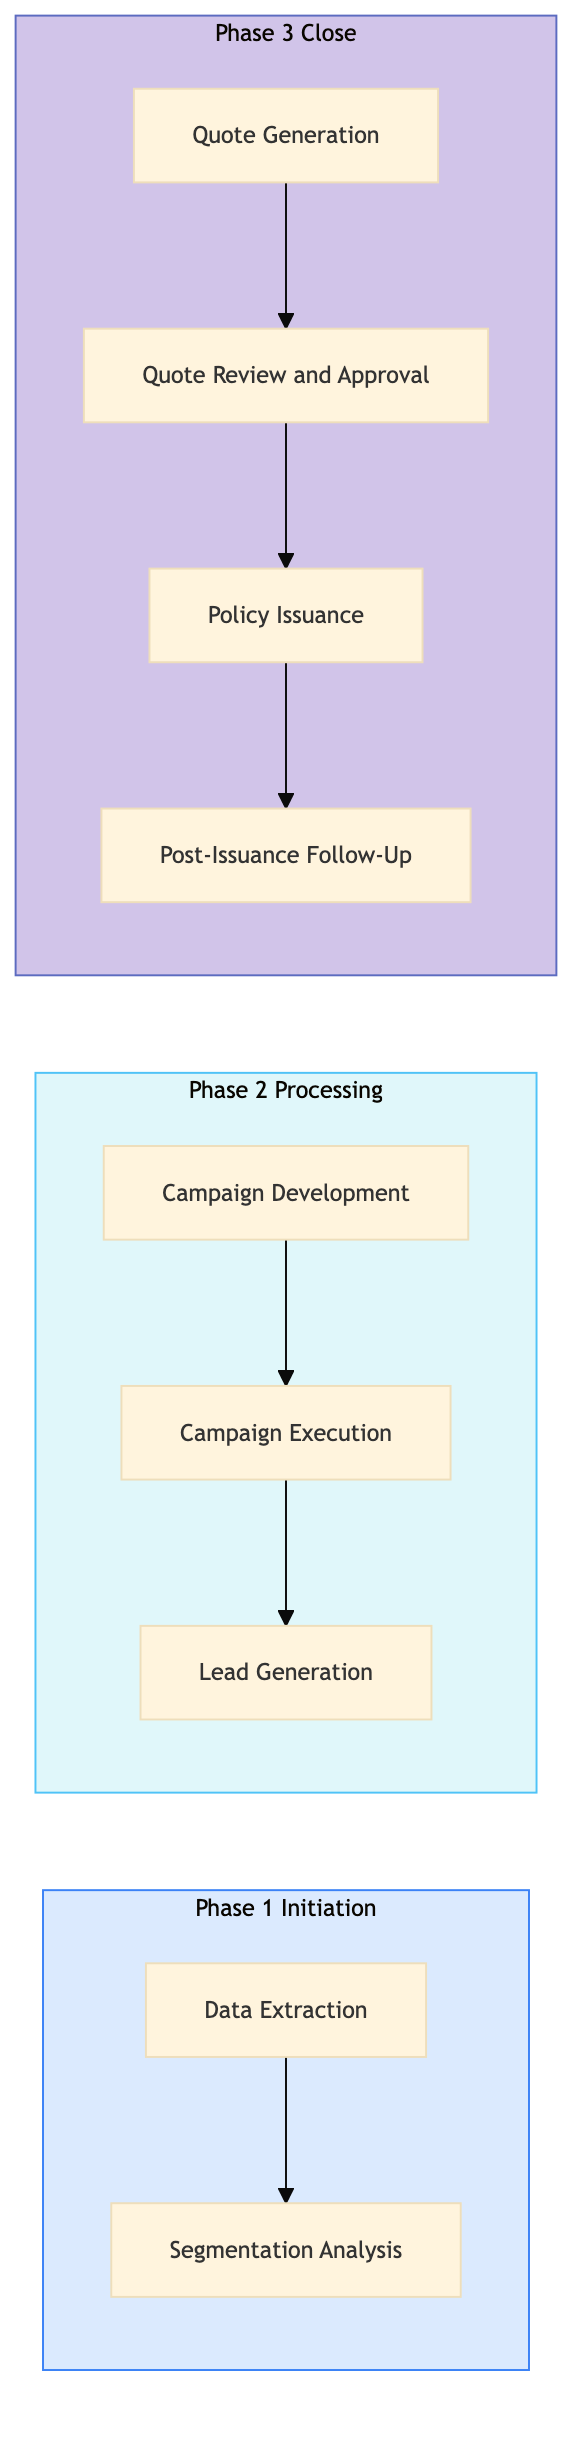
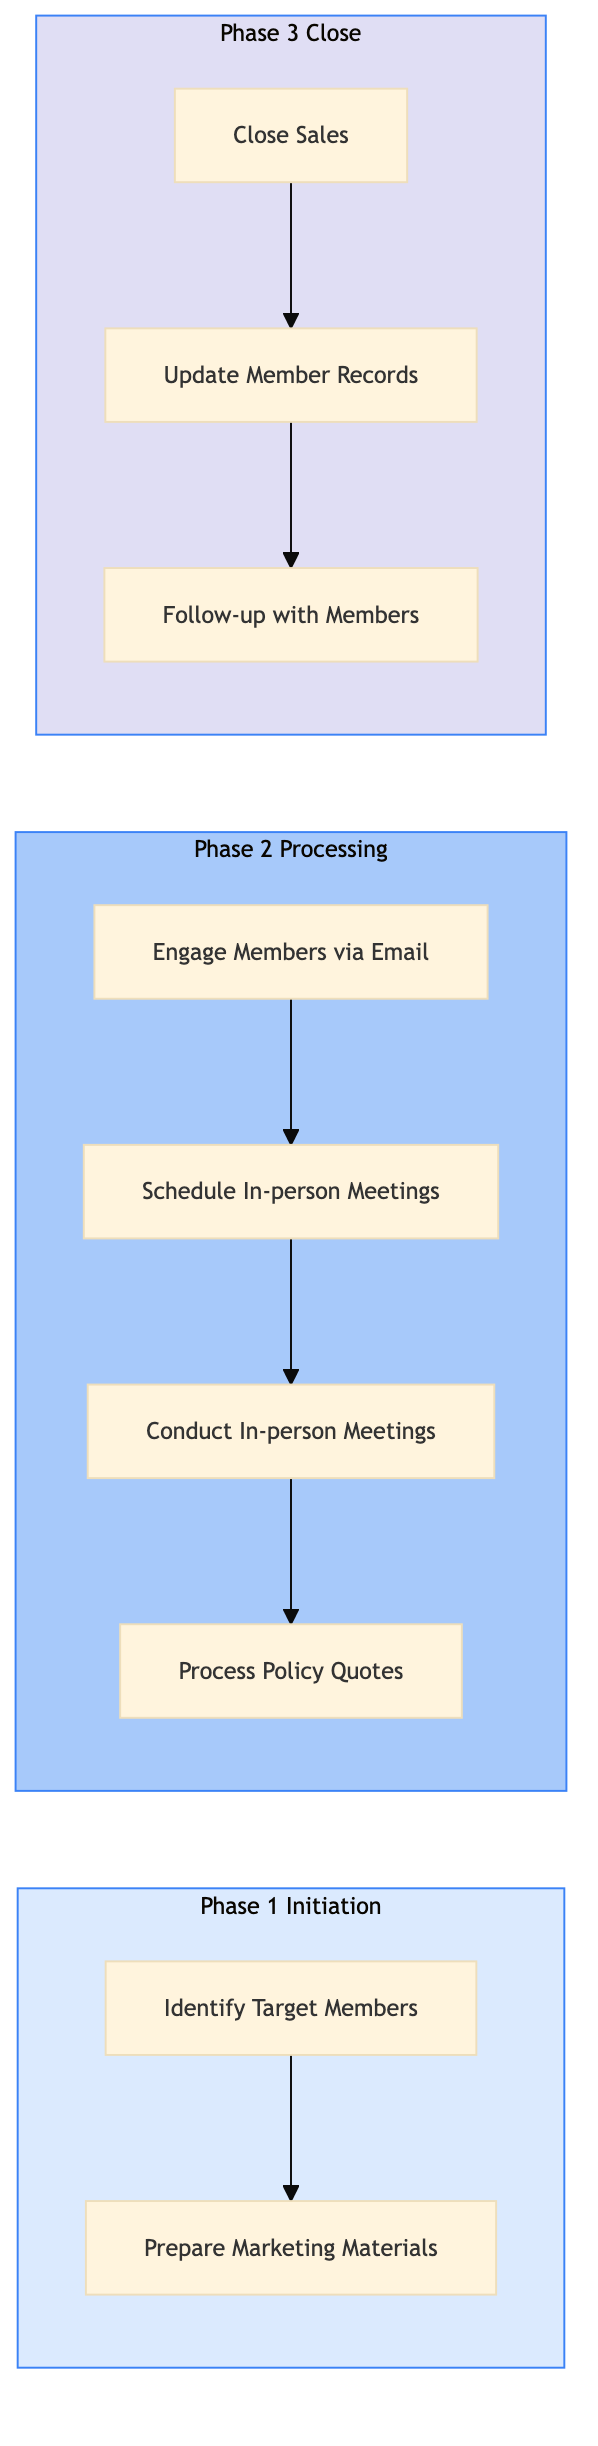
feat: add AAA-IN-AG-05 — Cross-Sell Insurance to Existing AAA Members

diff --git a/aaa-insurance/agency-operations/aaa-in-ag-05.html b/aaa-insurance/agency-operations/aaa-in-ag-05.html
@@ -23,40 +23,16 @@
     <div class="nav-l2-group">
       <a class="nav-l2-title" href="../../shared-membership/membership-enrolment/index.html">Membership Enrolment & Sales</a>
       <div class="nav-l3-list">
-        <a class="nav-l3" href="../../shared-membership/membership-enrolment/shared-mb-en-01.html">SHARED-MB-EN-01 &mdash; New Member Walk-In Enrolment (Branch)</a>
-        <a class="nav-l3" href="../../shared-membership/membership-enrolment/shared-mb-en-02.html">SHARED-MB-EN-02 &mdash; Online Membership Self-Enrolment (Web/Ap</a>
-        <a class="nav-l3" href="../../shared-membership/membership-enrolment/shared-mb-en-03.html">SHARED-MB-EN-03 &mdash; Phone Enrolment via Contact Centre</a>
-        <a class="nav-l3" href="../../shared-membership/membership-enrolment/shared-mb-en-04.html">SHARED-MB-EN-04 &mdash; Affiliate and Employer Group Enrolment</a>
-        <a class="nav-l3" href="../../shared-membership/membership-enrolment/shared-mb-en-05.html">SHARED-MB-EN-05 &mdash; Membership Tier Selection and Upsell</a>
-        <a class="nav-l3" href="../../shared-membership/membership-enrolment/shared-mb-en-06.html">SHARED-MB-EN-06 &mdash; Payment Processing and First-Year Billin</a>
-        <a class="nav-l3" href="../../shared-membership/membership-enrolment/shared-mb-en-07.html">SHARED-MB-EN-07 &mdash; Welcome Kit and Digital Card Issuance</a>
-        <a class="nav-l3" href="../../shared-membership/membership-enrolment/shared-mb-en-08.html">SHARED-MB-EN-08 &mdash; Duplicate Member Detection and Merge</a>
       </div>
     </div>
     <div class="nav-l2-group">
       <a class="nav-l2-title" href="../../shared-membership/membership-renewal/index.html">Membership Renewal & Retention</a>
       <div class="nav-l3-list">
-        <a class="nav-l3" href="../../shared-membership/membership-renewal/shared-mb-rn-01.html">SHARED-MB-RN-01 &mdash; Annual Renewal Notice Generation and Dis</a>
-        <a class="nav-l3" href="../../shared-membership/membership-renewal/shared-mb-rn-02.html">SHARED-MB-RN-02 &mdash; Auto-Renewal Processing (Credit Card on </a>
-        <a class="nav-l3" href="../../shared-membership/membership-renewal/shared-mb-rn-03.html">SHARED-MB-RN-03 &mdash; Lapsed Member Reinstatement Campaign</a>
-        <a class="nav-l3" href="../../shared-membership/membership-renewal/shared-mb-rn-04.html">SHARED-MB-RN-04 &mdash; Membership Upgrade and Tier Change Proce</a>
-        <a class="nav-l3" href="../../shared-membership/membership-renewal/shared-mb-rn-05.html">SHARED-MB-RN-05 &mdash; Associate and Household Member Add-On Pr</a>
-        <a class="nav-l3" href="../../shared-membership/membership-renewal/shared-mb-rn-06.html">SHARED-MB-RN-06 &mdash; Cancellation Request Handling and Save O</a>
-        <a class="nav-l3" href="../../shared-membership/membership-renewal/shared-mb-rn-07.html">SHARED-MB-RN-07 &mdash; Renewal Rate Review and Pricing Update</a>
-        <a class="nav-l3" href="../../shared-membership/membership-renewal/shared-mb-rn-08.html">SHARED-MB-RN-08 &mdash; Membership Winback Campaign (12-36 Month</a>
       </div>
     </div>
     <div class="nav-l2-group">
       <a class="nav-l2-title" href="../../shared-membership/member-services/index.html">Member Services & Benefits</a>
       <div class="nav-l3-list">
-        <a class="nav-l3" href="../../shared-membership/member-services/shared-mb-sv-01.html">SHARED-MB-SV-01 &mdash; Member Discount Partner Redemption</a>
-        <a class="nav-l3" href="../../shared-membership/member-services/shared-mb-sv-02.html">SHARED-MB-SV-02 &mdash; Passport Photo Service Delivery (Branch)</a>
-        <a class="nav-l3" href="../../shared-membership/member-services/shared-mb-sv-03.html">SHARED-MB-SV-03 &mdash; International Driving Permit (IDP) Proce</a>
-        <a class="nav-l3" href="../../shared-membership/member-services/shared-mb-sv-04.html">SHARED-MB-SV-04 &mdash; Notary and Document Authentication Servi</a>
-        <a class="nav-l3" href="../../shared-membership/member-services/shared-mb-sv-05.html">SHARED-MB-SV-05 &mdash; Member Portal Profile and Preferences Ma</a>
-        <a class="nav-l3" href="../../shared-membership/member-services/shared-mb-sv-06.html">SHARED-MB-SV-06 &mdash; Lost and Stolen Membership Card Replacem</a>
-        <a class="nav-l3" href="../../shared-membership/member-services/shared-mb-sv-07.html">SHARED-MB-SV-07 &mdash; Member Data Privacy Request (CCPA and PI</a>
-        <a class="nav-l3" href="../../shared-membership/member-services/shared-mb-sv-08.html">SHARED-MB-SV-08 &mdash; Member Satisfaction Survey and NPS Track</a>
       </div>
     </div>
   </div>
@@ -308,7 +284,7 @@
           <span class="pid-badge org-badge-aaa">AAA</span>
           AAA-IN-AG-05 &mdash; Cross-Sell Insurance to Existing AAA Members
         </h1>
-        <p>This process involves identifying existing AAA Northeast members who are eligible for additional insurance products and cross-selling these products to them. The goal is to increase the revenue from each member by offering complementary insurance offerings.</p>
+        <p>The process aims to cross-sell insurance products to existing AAA Northeast members by leveraging Guidewire Cloud for policy management and Salesforce for customer engagement.</p>
       </div>
 
       <!-- BPMN Diagram -->
@@ -334,10 +310,10 @@
             <tr><th>L1 Domain</th><td>AAA Insurance</td></tr>
             <tr><th>L2 Process</th><td>Insurance Agency Operations</td></tr>
             <tr><th>L3 Name</th><td>Cross-Sell Insurance to Existing AAA Members</td></tr>
-            <tr><th>Trigger</th><td>Quarterly review of member data and identification of high-value opportunities</td></tr>
-            <tr><th>Outcome</th><td>Successful completion results in increased sales of additional insurance products to existing members, leading to higher revenue for AAA Northeast.</td></tr>
-            <tr><th>Org Notes</th><td>AAA Northeast focuses on leveraging its large membership base and robust digital infrastructure to drive cross-selling efforts. The process is more integrated with Salesforce and Guidewire Cloud compared to CAA operations.</td></tr>
-            <tr><th>Systems</th><td><span class="sys-tag guidewire">Guidewire PolicyCenter</span> <span class="sys-tag salesforce">Salesforce</span> <span class="sys-tag snowflake">Snowflake</span> <span class="sys-tag verisk">Verisk ISO rating</span></td></tr>
+            <tr><th>Trigger</th><td>Quarterly review of member engagement data identifies under-insured or non-insured members.</td></tr>
+            <tr><th>Outcome</th><td>Successful completion results in increased membership insurance coverage, enhanced revenue, and improved customer satisfaction.</td></tr>
+            <tr><th>Org Notes</th><td>AAA Northeast focuses on direct member outreach through licensed agents, while CAA may rely more on digital channels for cross-selling.</td></tr>
+            <tr><th>Systems</th><td><span class="sys-tag guidewire">Guidewire Cloud</span> <span class="sys-tag salesforce">Salesforce</span> <span class="sys-tag verisk">Verisk ISO rating</span> <span class="sys-tag sys-generic">Calendar Integration</span></td></tr>
           </table>
         </div>
       </div>
@@ -358,109 +334,109 @@
               <tbody>
         <tr>
           <td class="step-num">1.1</td>
-          <td>Data Extraction</td>
+          <td>Identify Target Members</td>
           <td>Data Analyst</td>
-          <td><span class="sys-tag guidewire">Guidewire PolicyCenter/BillingCenter</span></td>
-          <td>Member database</td>
-          <td>Eligible member list</td>
-          <td>Number of eligible members identified per quarter (Target: 10,000)</td>
-          <td>Data extraction errors can lead to missed opportunities</td>
+          <td><span class="sys-tag guidewire">Guidewire Cloud</span></td>
+          <td>Member engagement data</td>
+          <td>List of under-insured or non-insured members</td>
+          <td>Number of identified target members: 5,000+</td>
+          <td>Data accuracy and completeness</td>
           <td>N</td>
           <td><span class="exception-y">Y</span></td>
         </tr>
         <tr>
           <td class="step-num">1.2</td>
-          <td>Segmentation Analysis</td>
-          <td>Data Analyst</td>
-          <td><span class="sys-tag snowflake">Snowflake</span></td>
-          <td>Eligible member list</td>
-          <td>Member segmentation report</td>
-          <td>Number of segments identified (Target: 5)</td>
-          <td>Inaccurate segmentation can result in ineffective targeting</td>
+          <td>Prepare Marketing Materials</td>
+          <td>Marketing Specialist</td>
+          <td><span class="sys-tag salesforce">Salesforce</span></td>
+          <td>List of target members, product details</td>
+          <td>Customized marketing emails, brochures</td>
+          <td>Number of prepared materials: 5,000+</td>
+          <td>Timely material preparation</td>
           <td>N</td>
           <td><span class="exception-y">Y</span></td>
         </tr>
         <tr>
           <td class="step-num">2.1</td>
-          <td>Campaign Development</td>
-          <td>Marketing Specialist</td>
+          <td>Engage Members via Email</td>
+          <td>Licensed Insurance Agent</td>
           <td><span class="sys-tag salesforce">Salesforce</span></td>
-          <td>Member segmentation report</td>
-          <td>Cross-selling campaign plan</td>
-          <td>Number of campaigns developed per quarter (Target: 3)</td>
-          <td>Resource constraints can delay campaign development</td>
+          <td>Customized marketing emails, member contact information</td>
+          <td>Email sent to target members</td>
+          <td>Number of emails sent: 5,000+</td>
+          <td>High open and click-through rates</td>
           <td>N</td>
           <td><span class="exception-y">Y</span></td>
         </tr>
         <tr>
           <td class="step-num">2.2</td>
-          <td>Campaign Execution</td>
+          <td>Schedule In-person Meetings</td>
           <td>Licensed Insurance Agent</td>
-          <td><span class="sys-tag guidewire">Salesforce, Guidewire PolicyCenter</span></td>
-          <td>Cross-selling campaign plan</td>
-          <td>Campaign execution report</td>
-          <td>Number of campaigns executed per quarter (Target: 3)</td>
-          <td>Low agent engagement can reduce campaign effectiveness</td>
+          <td><span class="sys-tag salesforce">Salesforce, Calendar Integration</span></td>
+          <td>Email responses, availability data</td>
+          <td>Scheduled meeting details</td>
+          <td>Number of scheduled meetings: 1,000+</td>
+          <td>Meeting scheduling conflicts</td>
           <td>N</td>
           <td><span class="exception-y">Y</span></td>
         </tr>
         <tr>
           <td class="step-num">2.3</td>
-          <td>Lead Generation</td>
+          <td>Conduct In-person Meetings</td>
           <td>Licensed Insurance Agent</td>
-          <td><span class="sys-tag guidewire">Salesforce, Guidewire PolicyCenter</span></td>
-          <td>Campaign execution report</td>
-          <td>Qualified lead list</td>
-          <td>Number of qualified leads generated per quarter (Target: 500)</td>
-          <td>High churning rates among leads can impact sales</td>
+          <td><span class="sys-tag guidewire">Guidewire Cloud, Salesforce</span></td>
+          <td>Scheduled meeting details, member information</td>
+          <td>Meeting notes, policy recommendations</td>
+          <td>Number of meetings conducted: 1,000+</td>
+          <td>Effective communication and product presentation</td>
+          <td>N</td>
+          <td><span class="exception-y">Y</span></td>
+        </tr>
+        <tr>
+          <td class="step-num">2.4</td>
+          <td>Process Policy Quotes</td>
+          <td>Underwriter</td>
+          <td><span class="sys-tag guidewire">Guidewire Cloud, Verisk ISO rating</span></td>
+          <td>Meeting notes, policy recommendations</td>
+          <td>Policy quotes with rates</td>
+          <td>Number of processed quotes: 1,000+</td>
+          <td>Quote accuracy and turnaround time</td>
           <td>N</td>
           <td><span class="exception-y">Y</span></td>
         </tr>
         <tr>
           <td class="step-num">3.1</td>
-          <td>Quote Generation</td>
+          <td>Close Sales</td>
           <td>Licensed Insurance Agent</td>
-          <td><span class="sys-tag guidewire">Guidewire PolicyCenter, Verisk ISO rating</span></td>
-          <td>Qualified lead list</td>
-          <td>Customized insurance quotes</td>
-          <td>Number of quotes generated per quarter (Target: 500)</td>
-          <td>Inaccurate quote generation can lead to customer dissatisfaction</td>
-          <td>N</td>
-          <td><span class="exception-y">Y</span></td>
-        </tr>
-        <tr>
-          <td class="step-num">3.2</td>
-          <td>Quote Review and Approval</td>
-          <td>Underwriter</td>
-          <td><span class="sys-tag guidewire">Guidewire PolicyCenter</span></td>
-          <td>Customized insurance quotes</td>
-          <td>Approved quote list</td>
-          <td>Number of quotes approved per quarter (Target: 400)</td>
-          <td>Delays in underwriting can slow down the sales process</td>
+          <td><span class="sys-tag guidewire">Guidewire Cloud, Salesforce</span></td>
+          <td>Policy quotes with rates, member decision</td>
+          <td>Signed policy documents</td>
+          <td>Number of policies sold: 500+</td>
+          <td>Closing the sale and handling objections</td>
           <td><span class="decision-y">Y</span></td>
           <td><span class="exception-y">Y</span></td>
         </tr>
         <tr>
-          <td class="step-num">3.3</td>
-          <td>Policy Issuance</td>
-          <td>Licensed Insurance Agent</td>
-          <td><span class="sys-tag guidewire">Guidewire PolicyCenter, Salesforce</span></td>
-          <td>Approved quote list</td>
-          <td>Issued policies</td>
-          <td>Number of policies issued per quarter (Target: 300)</td>
-          <td>Errors in policy issuance can lead to compliance issues</td>
+          <td class="step-num">3.2</td>
+          <td>Update Member Records</td>
+          <td>Data Analyst</td>
+          <td><span class="sys-tag guidewire">Guidewire Cloud, Salesforce</span></td>
+          <td>Signed policy documents</td>
+          <td>Updated member records in systems</td>
+          <td>Number of updated records: 500+</td>
+          <td>Data synchronization and integrity</td>
           <td>N</td>
           <td><span class="exception-y">Y</span></td>
         </tr>
         <tr>
-          <td class="step-num">3.4</td>
-          <td>Post-Issuance Follow-Up</td>
+          <td class="step-num">3.3</td>
+          <td>Follow-up with Members</td>
           <td>Licensed Insurance Agent</td>
-          <td><span class="sys-tag guidewire">Salesforce, Guidewire PolicyCenter</span></td>
-          <td>Issued policies</td>
-          <td>Follow-up report</td>
-          <td>Number of follow-ups conducted per quarter (Target: 300)</td>
-          <td>Low follow-up rates can reduce customer satisfaction</td>
+          <td><span class="sys-tag salesforce">Salesforce, Email Integration</span></td>
+          <td>Signed policy documents, member contact information</td>
+          <td>Follow-up emails and calls</td>
+          <td>Number of follow-ups: 500+</td>
+          <td>Maintaining customer satisfaction</td>
           <td>N</td>
           <td><span class="exception-y">Y</span></td>
         </tr>
@@ -475,9 +451,9 @@
         <div class="card-header">&#x1F4CA; KPIs &amp; Risk Register</div>
         <div class="card-body">
           <p class="mb-8"><strong>KPIs</strong></p>
-          <div class="kpi-list mb-8"><span class="kpi-pill">Number of eligible members identified per quarter (Target: 10,000)</span> <span class="kpi-pill">Number of campaigns developed per quarter (Target: 3)</span> <span class="kpi-pill">Number of qualified leads generated per quarter (Target: 500)</span> <span class="kpi-pill">Number of quotes generated per quarter (Target: 500)</span> <span class="kpi-pill">Number of policies issued per quarter (Target: 300)</span></div>
+          <div class="kpi-list mb-8"><span class="kpi-pill">Number of identified target members: 5,000+</span> <span class="kpi-pill">Number of emails sent: 5,000+</span> <span class="kpi-pill">Number of scheduled meetings: 1,000+</span> <span class="kpi-pill">Number of meetings conducted: 1,000+</span> <span class="kpi-pill">Number of policies sold: 500+</span></div>
           <p class="mb-8" style="margin-top:16px"><strong>Key Risks</strong></p>
-          <div class="kpi-list"><span class="risk-pill">Data extraction errors leading to missed opportunities</span> <span class="risk-pill">Inaccurate segmentation resulting in ineffective targeting</span> <span class="risk-pill">Resource constraints delaying campaign development</span> <span class="risk-pill">Low agent engagement reducing campaign effectiveness</span> <span class="risk-pill">High churning rates among leads impacting sales</span></div>
+          <div class="kpi-list"><span class="risk-pill">Inaccurate data leading to wrong target identification</span> <span class="risk-pill">Low response rates from email campaigns</span> <span class="risk-pill">Difficulty in scheduling meetings due to conflicts</span> <span class="risk-pill">Errors in policy quote processing</span> <span class="risk-pill">Challenges in closing sales and handling objections</span></div>
         </div>
       </div>
 

diff --git a/aaa-insurance/agency-operations/index.html b/aaa-insurance/agency-operations/index.html
@@ -85,6 +85,7 @@
         <a class="nav-l3" href="../../aaa-insurance/agency-operations/aaa-in-ag-01.html">AAA-IN-AG-01 &mdash; Licensed Agent Appointment and Onboardin</a>
         <a class="nav-l3" href="../../aaa-insurance/agency-operations/aaa-in-ag-02.html">AAA-IN-AG-02 &mdash; Agent Continuing Education and License R</a>
         <a class="nav-l3" href="../../aaa-insurance/agency-operations/aaa-in-ag-03.html">AAA-IN-AG-03 &mdash; Agency Performance Reporting and Scoreca</a>
+        <a class="nav-l3" href="../../aaa-insurance/agency-operations/aaa-in-ag-04.html">AAA-IN-AG-04 &mdash; E and O Compliance Review</a>
       </div>
     </div>
   </div>
@@ -276,7 +277,7 @@
           <a href="../index.html">AAA Insurance</a>
         </div>
         <h1>🛡 Insurance Agency Operations</h1>
-        <p>3 of 8 processes complete</p>
+        <p>4 of 8 processes complete</p>
       </div>
       <div class="card">
         <div class="card-header">Process List</div>
@@ -286,7 +287,7 @@
             <tbody><tr><td><a href="aaa-in-ag-01.html">AAA-IN-AG-01</a></td><td>Licensed Agent Appointment and Onboarding</td><td><span style="color:#16a34a;font-weight:700">&#x2705; Complete</span></td></tr>
 <tr><td><a href="aaa-in-ag-02.html">AAA-IN-AG-02</a></td><td>Agent Continuing Education and License Renewal Tracking</td><td><span style="color:#16a34a;font-weight:700">&#x2705; Complete</span></td></tr>
 <tr><td><a href="aaa-in-ag-03.html">AAA-IN-AG-03</a></td><td>Agency Performance Reporting and Scorecard</td><td><span style="color:#16a34a;font-weight:700">&#x2705; Complete</span></td></tr>
-<tr><td>AAA-IN-AG-04</td><td>E and O Compliance Review</td><td><span style="color:#94a3b8">&#x23F3; Queued</span></td></tr>
+<tr><td><a href="aaa-in-ag-04.html">AAA-IN-AG-04</a></td><td>E and O Compliance Review</td><td><span style="color:#16a34a;font-weight:700">&#x2705; Complete</span></td></tr>
 <tr><td>AAA-IN-AG-05</td><td>Cross-Sell Insurance to Existing AAA Members</td><td><span style="color:#94a3b8">&#x23F3; Queued</span></td></tr>
 <tr><td>AAA-IN-AG-06</td><td>Insurance Lead Management and Pipeline (Salesforce)</td><td><span style="color:#94a3b8">&#x23F3; Queued</span></td></tr>
 <tr><td>AAA-IN-AG-07</td><td>Agent Commission Dispute Resolution</td><td><span style="color:#94a3b8">&#x23F3; Queued</span></td></tr>

diff --git a/index.html b/index.html
@@ -85,6 +85,7 @@
         <a class="nav-l3" href="aaa-insurance/agency-operations/aaa-in-ag-01.html">AAA-IN-AG-01 &mdash; Licensed Agent Appointment and Onboardin</a>
         <a class="nav-l3" href="aaa-insurance/agency-operations/aaa-in-ag-02.html">AAA-IN-AG-02 &mdash; Agent Continuing Education and License R</a>
         <a class="nav-l3" href="aaa-insurance/agency-operations/aaa-in-ag-03.html">AAA-IN-AG-03 &mdash; Agency Performance Reporting and Scoreca</a>
+        <a class="nav-l3" href="aaa-insurance/agency-operations/aaa-in-ag-04.html">AAA-IN-AG-04 &mdash; E and O Compliance Review</a>
       </div>
     </div>
   </div>
@@ -276,9 +277,9 @@
       </div>
 
       <div class="stats-bar">
-        <div class="stat-card"><div class="stat-num">29</div><div class="stat-label">Processes Complete</div></div>
+        <div class="stat-card"><div class="stat-num">30</div><div class="stat-label">Processes Complete</div></div>
         <div class="stat-card"><div class="stat-num">268</div><div class="stat-label">Total Processes</div></div>
-        <div class="stat-card"><div class="stat-num">29</div><div class="stat-label">AAA Complete</div></div>
+        <div class="stat-card"><div class="stat-num">30</div><div class="stat-label">AAA Complete</div></div>
         <div class="stat-card"><div class="stat-num caa-red">0</div><div class="stat-label">CAA Complete</div></div>
         <div class="stat-card"><div class="stat-num">0</div><div class="stat-label">Shared Complete</div></div>
       </div>
@@ -298,7 +299,7 @@
         <span class="nav-org-dot aaa" style="display:inline-block;margin-right:4px"></span>
         AAA
       </p>
-      <p class="card-count">29 / 34 processes complete</p>
+      <p class="card-count">30 / 34 processes complete</p>
     </div>
     <div class="domain-card org-caa">
       <h3><a href="caa-insurance/index.html">🍁 CAA Insurance (Ontario)</a></h3>

diff --git a/aaa-insurance/index.html b/aaa-insurance/index.html
@@ -85,6 +85,7 @@
         <a class="nav-l3" href="../aaa-insurance/agency-operations/aaa-in-ag-01.html">AAA-IN-AG-01 &mdash; Licensed Agent Appointment and Onboardin</a>
         <a class="nav-l3" href="../aaa-insurance/agency-operations/aaa-in-ag-02.html">AAA-IN-AG-02 &mdash; Agent Continuing Education and License R</a>
         <a class="nav-l3" href="../aaa-insurance/agency-operations/aaa-in-ag-03.html">AAA-IN-AG-03 &mdash; Agency Performance Reporting and Scoreca</a>
+        <a class="nav-l3" href="../aaa-insurance/agency-operations/aaa-in-ag-04.html">AAA-IN-AG-04 &mdash; E and O Compliance Review</a>
       </div>
     </div>
   </div>
@@ -273,7 +274,7 @@
       <div class="page-header">
         <div class="breadcrumb"><a href="../index.html">Home</a></div>
         <h1>🛡 AAA Insurance</h1>
-        <p>29 of 34 processes complete across 4 process groups</p>
+        <p>30 of 34 processes complete across 4 process groups</p>
       </div>
       <div class="domain-grid">    <div class="domain-card org-aaa">
       <h3><a href="insurance-quoting/index.html">Quoting & Underwriting</a></h3>
@@ -289,7 +290,7 @@
     </div>
     <div class="domain-card org-aaa">
       <h3><a href="agency-operations/index.html">Insurance Agency Operations</a></h3>
-      <p class="card-meta">3/8 processes complete</p>
+      <p class="card-meta">4/8 processes complete</p>
     </div>
 </div>
     </main>
